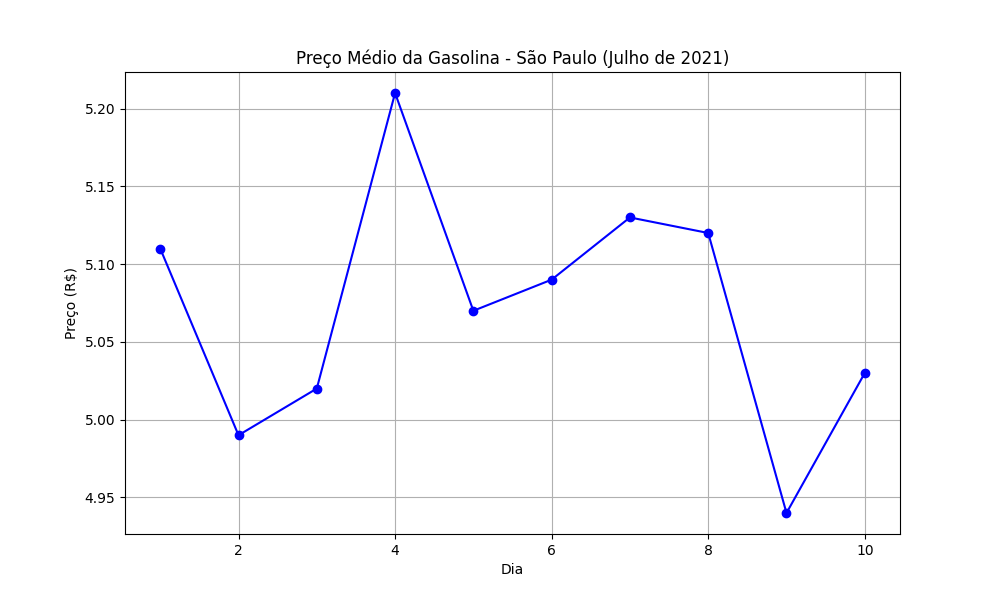
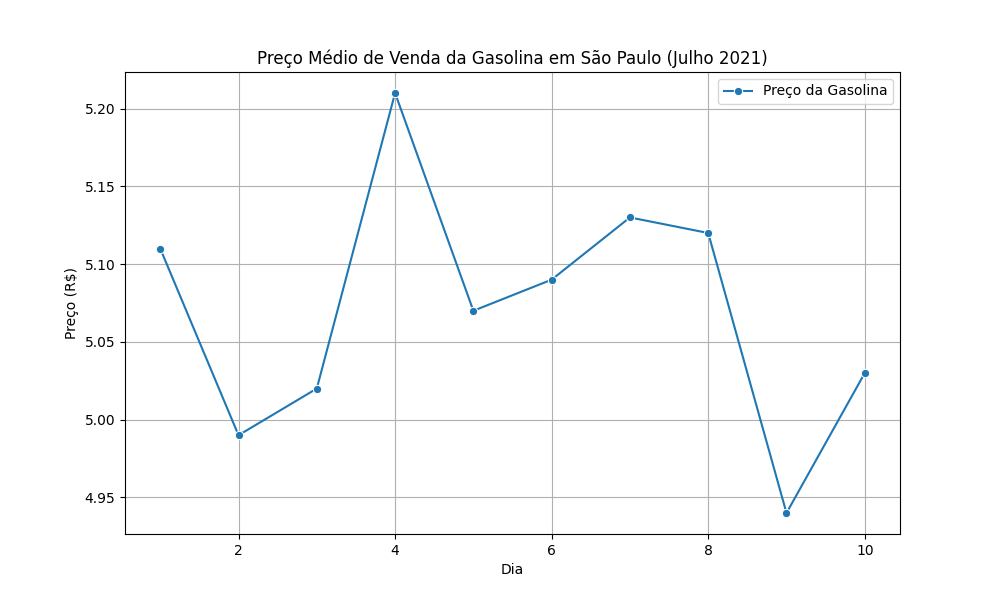
Adiciona dados de gasolina e gráfico

diff --git a/gasolina.py b/gasolina.py
@@ -1,1 +1,19 @@
-# (Copie e cole o código acima aqui para que ele seja salvo em gasolina.py)
+
+import pandas as pd
+import seaborn as sns
+import matplotlib.pyplot as plt
+
+# Ler os dados do CSV
+data = pd.read_csv('gasolina.csv')
+
+# Criar o gráfico
+plt.figure(figsize=(10, 6))
+sns.lineplot(data=data, x='dia', y='venda', marker='o')
+plt.title('Preço Médio de Venda da Gasolina em São Paulo (Julho 2021)')
+plt.xlabel('Dia')
+plt.ylabel('Preço (R$)')
+plt.legend(['Preço da Gasolina'])
+plt.grid(True)
+
+# Salvar o gráfico
+plt.savefig('gasolina.png')
